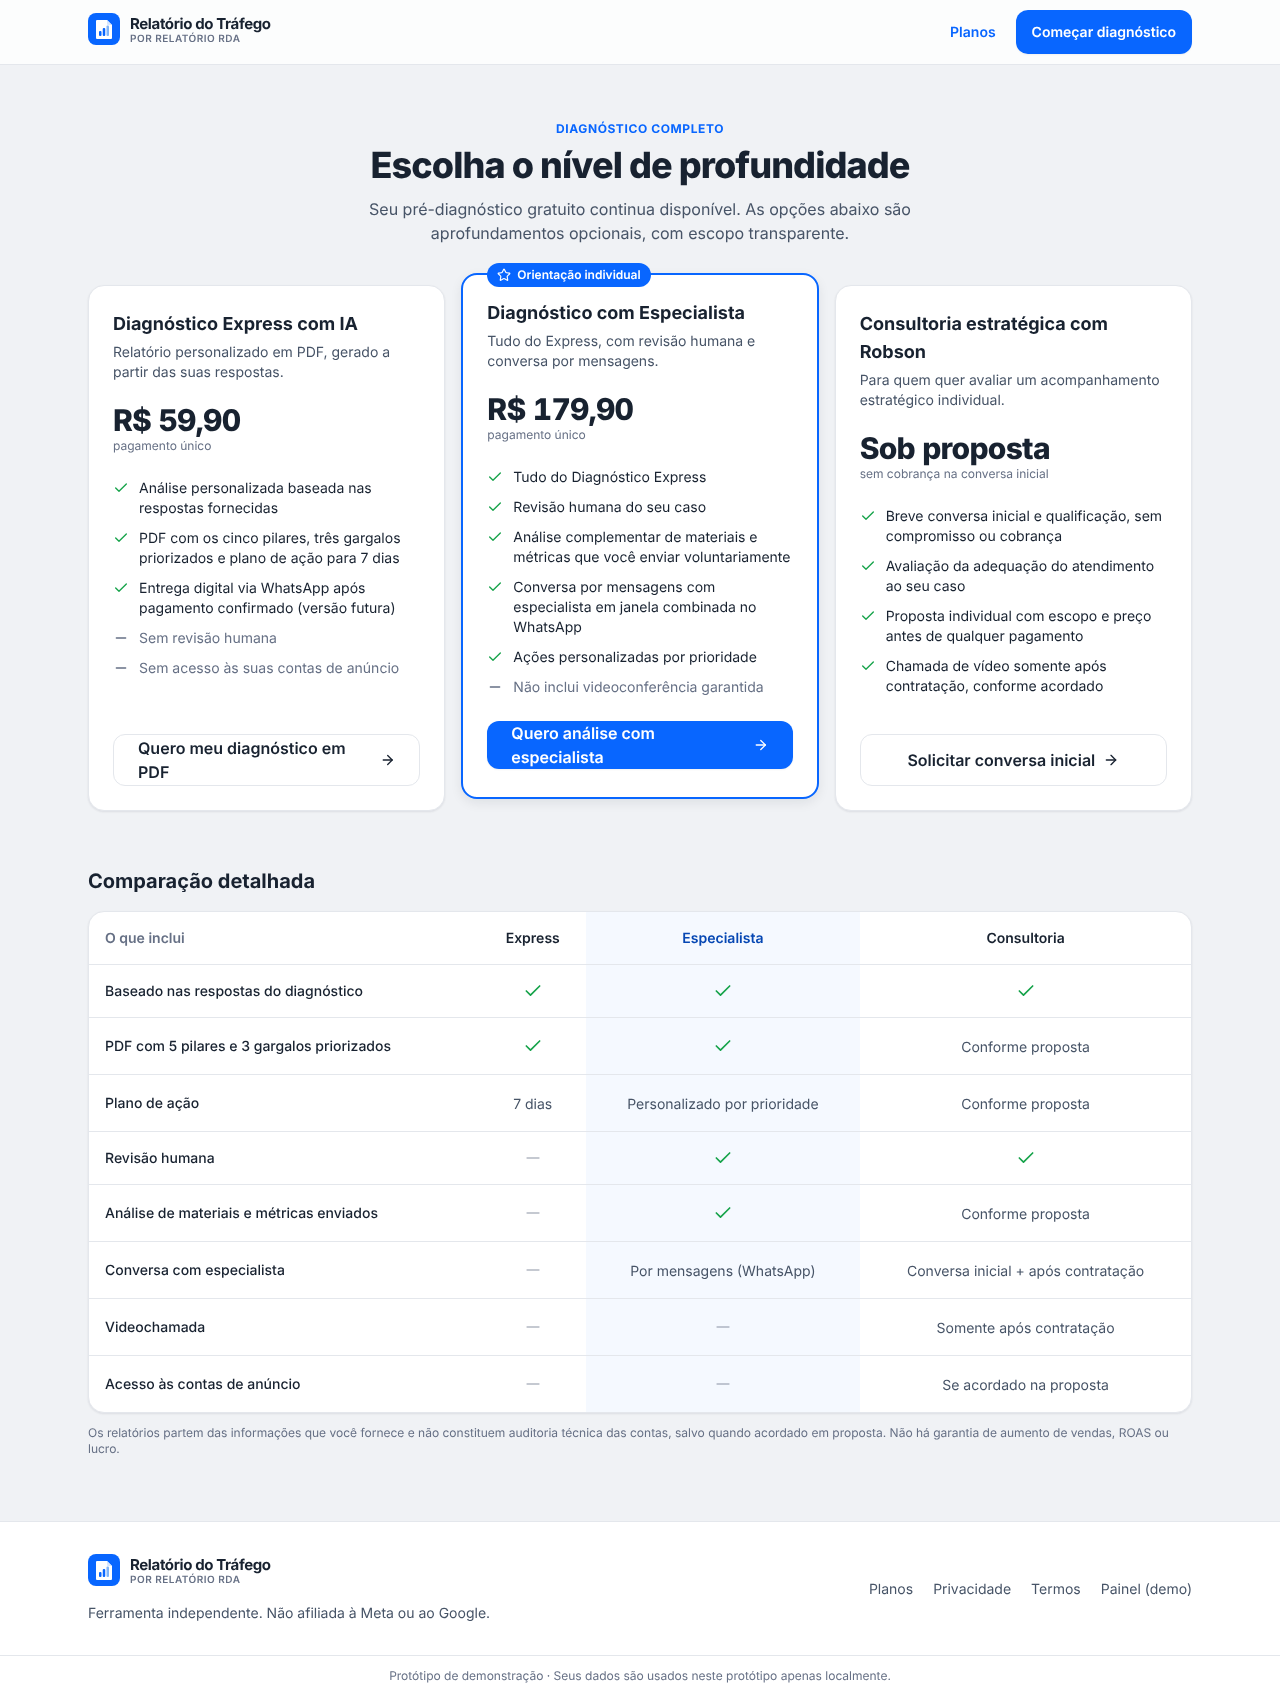
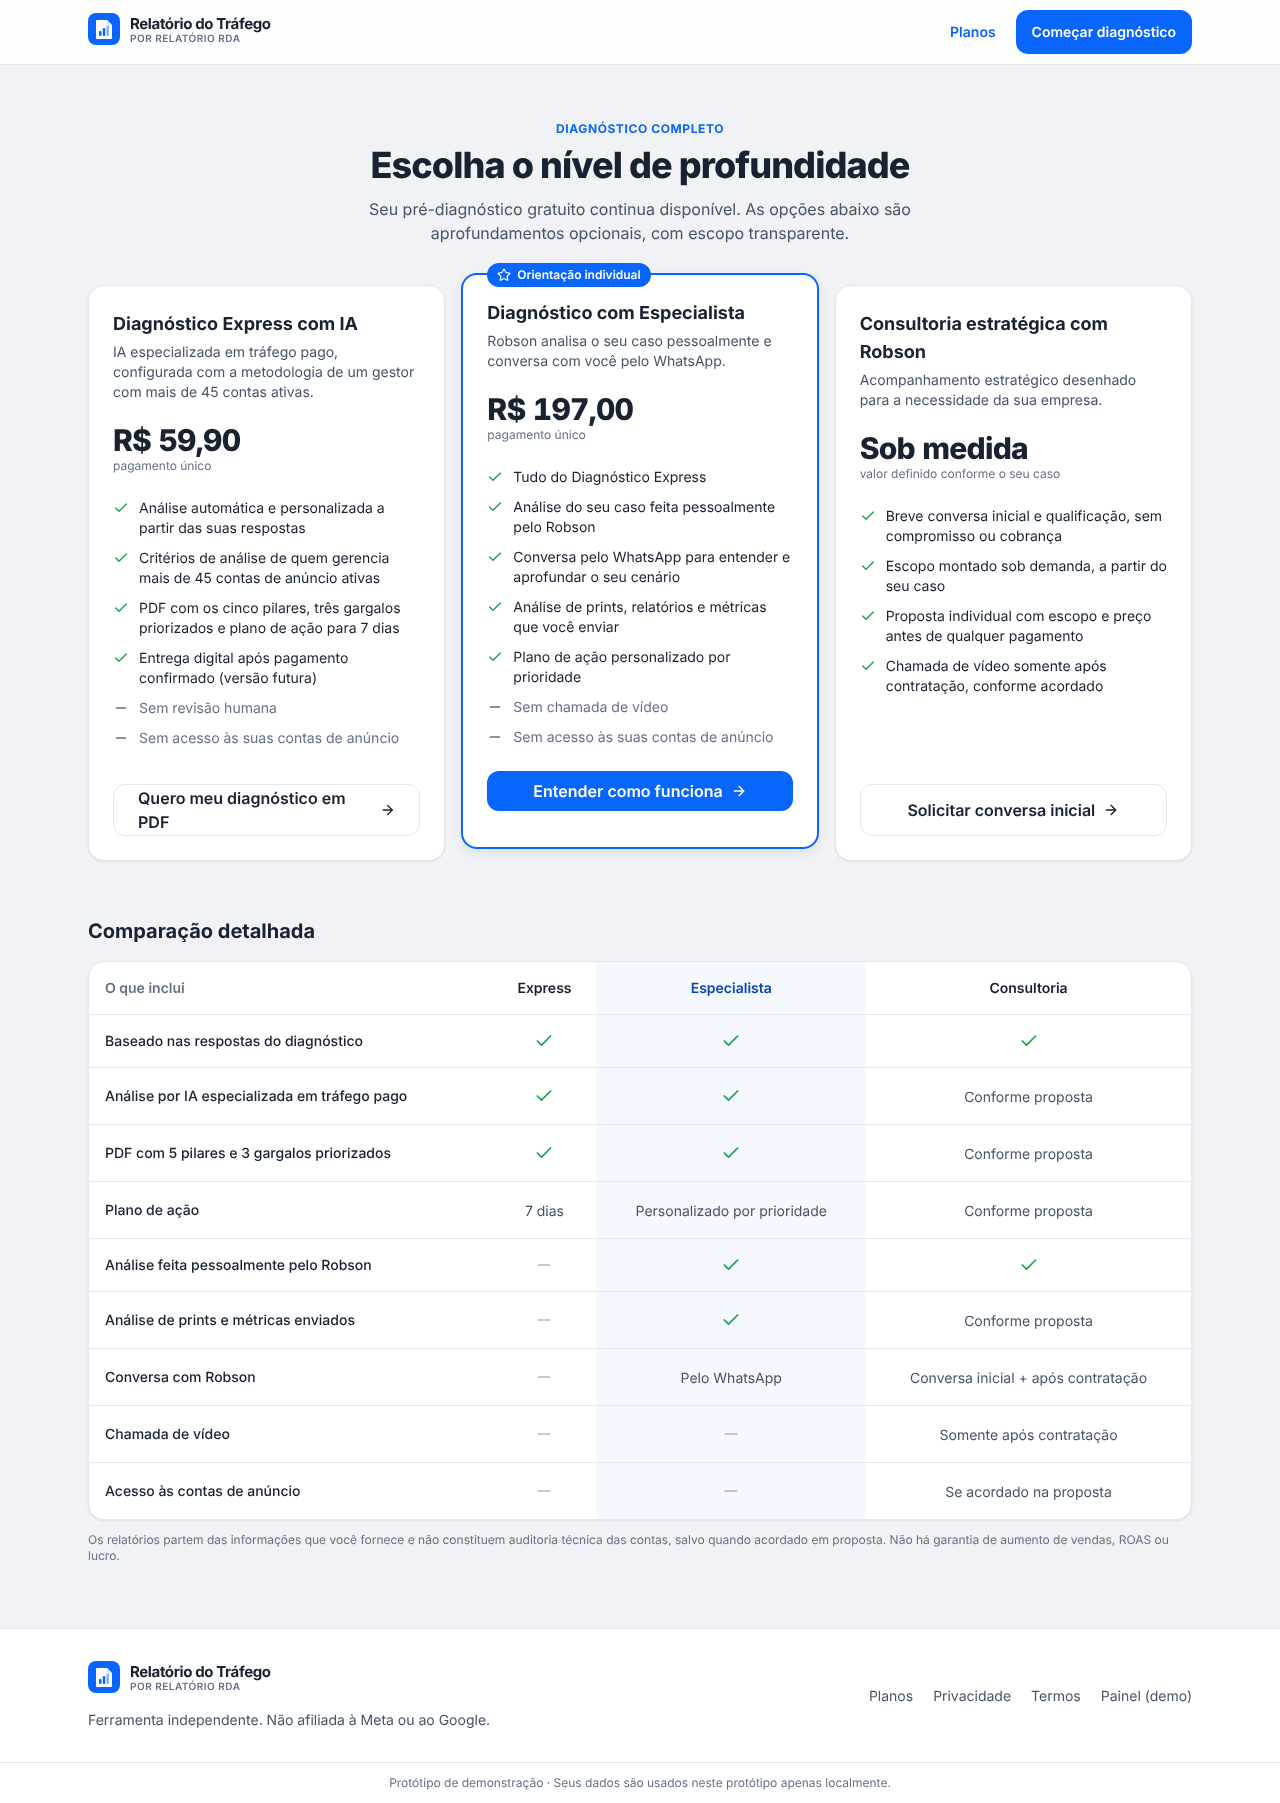
Update offers: Express AI positioning, Specialist at R$197 with explainer page
- Express: AI specialized in paid traffic, configured with the methodology
  of a manager running 45+ active accounts
- Specialist: R$197,00, CTA now opens /diagnostico-especialista explaining
  the WhatsApp-only flow, no video call and no ad-account access
- Consulting: priced on demand per case
- Future upgrade difference adjusted to R$137,10

Claude-Session: https://claude.ai/code/session_01Mtuoy7UwKuteW3eQz1sKDf

diff --git a/src/pages/SpecialistPlan.tsx b/src/pages/SpecialistPlan.tsx
@@ -1,0 +1,197 @@
+import { ArrowLeft, ArrowRight, Check, ClipboardList, FileText, KeyRound, MessageCircle, Search, Send, UserRound, VideoOff } from 'lucide-react';
+import { Link } from 'react-router-dom';
+import { Card, LinkButton } from '../components/ui';
+import { getPlan } from '../data/plans';
+
+const STEPS = [
+  {
+    icon: ClipboardList,
+    title: 'Você contrata e o diagnóstico já começa',
+    text: 'Suas respostas do questionário servem de ponto de partida. Você não precisa repetir tudo do zero.',
+  },
+  {
+    icon: Send,
+    title: 'Você envia o que tiver pelo WhatsApp',
+    text: 'Prints de resultados, relatórios, link da página, criativos ou números de vendas. Só o que você quiser compartilhar.',
+  },
+  {
+    icon: Search,
+    title: 'Robson analisa o seu caso pessoalmente',
+    text: 'Leitura humana do cenário completo: estratégia, mensuração, criativos, custo por cliente e atendimento.',
+  },
+  {
+    icon: MessageCircle,
+    title: 'Conversa pelo WhatsApp',
+    text: 'Perguntas para entender o contexto e espaço para você tirar dúvidas, no seu tempo, por mensagens.',
+  },
+  {
+    icon: FileText,
+    title: 'Você recebe o diagnóstico e o plano de ação',
+    text: 'PDF com os gargalos priorizados e ações personalizadas, na ordem em que fazem mais diferença para o seu caso.',
+  },
+];
+
+const FAQ = [
+  {
+    q: 'Preciso dar acesso à minha conta de anúncios?',
+    a: 'Não. A análise é feita com base nas suas respostas e no material que você enviar. Você não compartilha senhas nem acessos.',
+  },
+  {
+    q: 'Vai ter chamada de vídeo?',
+    a: 'Não. Toda a conversa acontece pelo WhatsApp, por mensagens. Assim você responde quando puder, sem precisar marcar horário.',
+  },
+  {
+    q: 'Quem faz a análise?',
+    a: 'O próprio Robson, gestor de tráfego e fundador da Qvn Ads. A IA organiza a base do relatório; a leitura do caso e as recomendações são dele.',
+  },
+  {
+    q: 'É uma auditoria da conta?',
+    a: 'Não. É um diagnóstico estratégico baseado no que você informa e envia. Uma auditoria técnica dentro das contas faz parte apenas da consultoria, se acordado em proposta.',
+  },
+  {
+    q: 'Em quanto tempo recebo?',
+    a: 'O prazo de entrega será informado antes da contratação.',
+  },
+];
+
+export default function SpecialistPlan() {
+  const plan = getPlan('especialista')!;
+  return (
+    <div className="mx-auto max-w-5xl px-4 pt-8 sm:px-6 sm:pt-12">
+      <Link to="/planos" className="mb-6 inline-flex items-center gap-1.5 text-sm font-semibold text-ink-soft hover:text-ink">
+        <ArrowLeft className="h-4 w-4" aria-hidden /> Voltar aos planos
+      </Link>
+
+      {/* Hero */}
+      <div className="grid gap-6 lg:grid-cols-[1fr_320px] lg:items-start">
+        <div className="anim-rise">
+          <span className="chip bg-brand-50 text-brand-700">Orientação individual</span>
+          <h1 className="mt-3 text-3xl font-extrabold leading-tight tracking-tight sm:text-4xl">
+            Diagnóstico com Especialista: o seu caso analisado pelo Robson
+          </h1>
+          <p className="mt-3 text-lg text-ink-soft">
+            Uma análise individual da sua estratégia de tráfego pago, com conversa pelo WhatsApp.
+            <strong className="text-ink"> Sem chamada de vídeo e sem precisar entrar nas suas contas de anúncio.</strong>
+          </p>
+          <ul className="mt-5 grid gap-2 text-sm sm:grid-cols-3">
+            <li className="flex items-center gap-2 rounded-xl border border-line bg-white px-3 py-2.5">
+              <MessageCircle className="h-4 w-4 shrink-0 text-ok" aria-hidden /> Tudo pelo WhatsApp
+            </li>
+            <li className="flex items-center gap-2 rounded-xl border border-line bg-white px-3 py-2.5">
+              <VideoOff className="h-4 w-4 shrink-0 text-brand" aria-hidden /> Sem chamada de vídeo
+            </li>
+            <li className="flex items-center gap-2 rounded-xl border border-line bg-white px-3 py-2.5">
+              <KeyRound className="h-4 w-4 shrink-0 text-brand" aria-hidden /> Sem acesso às contas
+            </li>
+          </ul>
+        </div>
+
+        <Card className="anim-rise p-6 [animation-delay:60ms] lg:sticky lg:top-24">
+          <p className="text-sm font-semibold text-ink-soft">{plan.name}</p>
+          <p className="tabular mt-1 text-4xl font-extrabold tracking-tight">{plan.price}</p>
+          <p className="text-xs text-ink-mute">{plan.priceNote}</p>
+          <ul className="mt-5 space-y-2 text-sm">
+            {plan.features.map((f) => (
+              <li key={f} className="flex gap-2">
+                <Check className="mt-0.5 h-4 w-4 shrink-0 text-ok" aria-hidden /> {f}
+              </li>
+            ))}
+          </ul>
+          <LinkButton to="/checkout-demo?plano=especialista" size="lg" className="mt-6 w-full">
+            Quero minha análise <ArrowRight className="h-4 w-4" aria-hidden />
+          </LinkButton>
+          <Link to="/checkout-demo?plano=express" className="mt-3 block text-center text-sm font-semibold text-brand hover:underline">
+            Prefiro o Express com IA (R$ 59,90)
+          </Link>
+        </Card>
+      </div>
+
+      {/* Como funciona */}
+      <section className="mt-14" aria-labelledby="how-title">
+        <h2 id="how-title" className="text-2xl font-bold tracking-tight">Como funciona</h2>
+        <ol className="mt-6 space-y-3">
+          {STEPS.map(({ icon: Icon, title, text }, i) => (
+            <li key={title} className="card flex gap-4 p-5">
+              <div className="flex flex-col items-center">
+                <span className="grid h-10 w-10 shrink-0 place-items-center rounded-xl bg-brand-50 text-brand">
+                  <Icon className="h-5 w-5" aria-hidden />
+                </span>
+              </div>
+              <div>
+                <p className="text-xs font-bold uppercase tracking-wide text-ink-mute">Passo {i + 1}</p>
+                <h3 className="mt-0.5 font-bold">{title}</h3>
+                <p className="mt-1 text-sm text-ink-soft">{text}</p>
+              </div>
+            </li>
+          ))}
+        </ol>
+      </section>
+
+      {/* Por que sem call e sem acesso */}
+      <section className="mt-14 grid gap-4 md:grid-cols-2">
+        <Card className="p-6">
+          <VideoOff className="h-6 w-6 text-brand" aria-hidden />
+          <h2 className="mt-3 text-lg font-bold">Por que sem chamada?</h2>
+          <p className="mt-2 text-sm text-ink-soft">
+            Por mensagens você manda prints e números com calma, responde quando puder e fica com tudo registrado para consultar depois.
+            Sem agenda para encaixar e sem pressa.
+          </p>
+        </Card>
+        <Card className="p-6">
+          <KeyRound className="h-6 w-6 text-brand" aria-hidden />
+          <h2 className="mt-3 text-lg font-bold">Por que sem entrar nas contas?</h2>
+          <p className="mt-2 text-sm text-ink-soft">
+            Você não precisa compartilhar senhas nem dar acesso ao Gerenciador. O foco é a estratégia: como você mede, quanto custa um cliente,
+            para onde vai o clique e como o contato vira venda.
+          </p>
+        </Card>
+      </section>
+
+      {/* Quem analisa */}
+      <section className="mt-4">
+        <Card className="grid gap-5 p-6 sm:grid-cols-[auto_1fr] sm:items-center">
+          <div
+            className="grid h-20 w-20 place-items-center rounded-2xl border-2 border-dashed border-line bg-canvas text-ink-mute"
+            role="img"
+            aria-label="Espaço reservado para a foto de Robson"
+          >
+            <UserRound className="h-7 w-7" aria-hidden />
+          </div>
+          <div>
+            <p className="text-xs font-bold uppercase tracking-wider text-brand">Quem analisa</p>
+            <h2 className="mt-1 text-lg font-bold">Robson, gestor de tráfego e fundador da Qvn Ads</h2>
+            <p className="mt-1 text-sm text-ink-soft">
+              Gerencia mais de 45 contas de anúncio ativas e trabalha com estratégia e análise de campanhas para empresas de diferentes perfis.
+            </p>
+          </div>
+        </Card>
+      </section>
+
+      {/* FAQ */}
+      <section className="mt-14" aria-labelledby="faq-title">
+        <h2 id="faq-title" className="text-2xl font-bold tracking-tight">Perguntas frequentes</h2>
+        <div className="mt-5 space-y-2">
+          {FAQ.map((f) => (
+            <details key={f.q} className="card group p-0">
+              <summary className="flex cursor-pointer list-none items-center justify-between gap-3 px-5 py-4 font-semibold">
+                {f.q}
+                <span className="text-brand transition-transform group-open:rotate-45" aria-hidden>+</span>
+              </summary>
+              <p className="px-5 pb-4 text-sm text-ink-soft">{f.a}</p>
+            </details>
+          ))}
+        </div>
+      </section>
+
+      <div className="card mt-10 flex flex-col gap-4 bg-gradient-to-br from-white to-brand-50/60 p-6 sm:flex-row sm:items-center sm:justify-between">
+        <div>
+          <h2 className="text-lg font-bold">Pronto para ter o seu caso analisado?</h2>
+          <p className="text-sm text-ink-soft">{plan.price} · pagamento único · tudo pelo WhatsApp</p>
+        </div>
+        <LinkButton to="/checkout-demo?plano=especialista" size="lg" className="w-full sm:w-auto">
+          Quero análise com especialista <ArrowRight className="h-4 w-4" aria-hidden />
+        </LinkButton>
+      </div>
+    </div>
+  );
+}

diff --git a/src/data/plans.ts b/src/data/plans.ts
@@ -6,43 +6,44 @@ export const PLANS: Plan[] = [
     name: 'Diagnóstico Express com IA',
     price: 'R$ 59,90',
     priceNote: 'pagamento único',
-    tagline: 'Relatório personalizado em PDF, gerado a partir das suas respostas.',
+    tagline: 'IA especializada em tráfego pago, configurada com a metodologia de um gestor com mais de 45 contas ativas.',
     features: [
-      'Análise personalizada baseada nas respostas fornecidas',
+      'Análise automática e personalizada a partir das suas respostas',
+      'Critérios de análise de quem gerencia mais de 45 contas de anúncio ativas',
       'PDF com os cinco pilares, três gargalos priorizados e plano de ação para 7 dias',
-      'Entrega digital via WhatsApp após pagamento confirmado (versão futura)',
+      'Entrega digital após pagamento confirmado (versão futura)',
     ],
     excludes: ['Sem revisão humana', 'Sem acesso às suas contas de anúncio'],
-    cta: 'Quero meu diagnóstico em PDF',
+    cta: 'Quero meu PDF com IA',
     href: '/checkout-demo?plano=express',
   },
   {
     id: 'especialista',
     name: 'Diagnóstico com Especialista',
-    price: 'R$ 179,90',
+    price: 'R$ 197,00',
     priceNote: 'pagamento único',
-    tagline: 'Tudo do Express, com revisão humana e conversa por mensagens.',
+    tagline: 'Robson analisa o seu caso pessoalmente e conversa com você pelo WhatsApp.',
     features: [
       'Tudo do Diagnóstico Express',
-      'Revisão humana do seu caso',
-      'Análise complementar de materiais e métricas que você enviar voluntariamente',
-      'Conversa por mensagens com especialista em janela combinada no WhatsApp',
-      'Ações personalizadas por prioridade',
+      'Análise do seu caso feita pessoalmente pelo Robson',
+      'Conversa pelo WhatsApp para entender e aprofundar o seu cenário',
+      'Análise de prints, relatórios e métricas que você enviar',
+      'Plano de ação personalizado por prioridade',
     ],
-    excludes: ['Não inclui videoconferência garantida'],
-    cta: 'Quero análise com especialista',
-    href: '/checkout-demo?plano=especialista',
+    excludes: ['Sem chamada de vídeo', 'Sem acesso às suas contas de anúncio'],
+    cta: 'Entender como funciona',
+    href: '/diagnostico-especialista',
     highlight: 'Orientação individual',
   },
   {
     id: 'consultoria',
     name: 'Consultoria estratégica com Robson',
-    price: 'Sob proposta',
-    priceNote: 'sem cobrança na conversa inicial',
-    tagline: 'Para quem quer avaliar um acompanhamento estratégico individual.',
+    price: 'Sob medida',
+    priceNote: 'valor definido conforme o seu caso',
+    tagline: 'Acompanhamento estratégico desenhado para a necessidade da sua empresa.',
     features: [
       'Breve conversa inicial e qualificação, sem compromisso ou cobrança',
-      'Avaliação da adequação do atendimento ao seu caso',
+      'Escopo montado sob demanda, a partir do seu caso',
       'Proposta individual com escopo e preço antes de qualquer pagamento',
       'Chamada de vídeo somente após contratação, conforme acordado',
     ],
@@ -56,5 +57,5 @@ export function getPlan(id: string | null | undefined): Plan | undefined {
   return PLANS.find((p) => p.id === (id as PlanId));
 }
 
-/** Reservado para fase futura: upgrade Express → Especialista. Não implementado. */
-export const FUTURE_UPGRADE_DIFF = 'R$ 120,00';
+/** Reservado para fase futura: upgrade Express → Especialista (R$ 197,00 − R$ 59,90). Não implementado. */
+export const FUTURE_UPGRADE_DIFF = 'R$ 137,10';

diff --git a/src/pages/Plans.tsx b/src/pages/Plans.tsx
@@ -4,12 +4,13 @@ import { PLANS } from '../data/plans';
 
 const COMPARISON: { label: string; values: [string | boolean, string | boolean, string | boolean] }[] = [
   { label: 'Baseado nas respostas do diagnóstico', values: [true, true, true] },
+  { label: 'Análise por IA especializada em tráfego pago', values: [true, true, 'Conforme proposta'] },
   { label: 'PDF com 5 pilares e 3 gargalos priorizados', values: [true, true, 'Conforme proposta'] },
   { label: 'Plano de ação', values: ['7 dias', 'Personalizado por prioridade', 'Conforme proposta'] },
-  { label: 'Revisão humana', values: [false, true, true] },
-  { label: 'Análise de materiais e métricas enviados', values: [false, true, 'Conforme proposta'] },
-  { label: 'Conversa com especialista', values: [false, 'Por mensagens (WhatsApp)', 'Conversa inicial + após contratação'] },
-  { label: 'Videochamada', values: [false, false, 'Somente após contratação'] },
+  { label: 'Análise feita pessoalmente pelo Robson', values: [false, true, true] },
+  { label: 'Análise de prints e métricas enviados', values: [false, true, 'Conforme proposta'] },
+  { label: 'Conversa com Robson', values: [false, 'Pelo WhatsApp', 'Conversa inicial + após contratação'] },
+  { label: 'Chamada de vídeo', values: [false, false, 'Somente após contratação'] },
   { label: 'Acesso às contas de anúncio', values: [false, false, 'Se acordado na proposta'] },
 ];
 

diff --git a/src/App.tsx b/src/App.tsx
@@ -5,6 +5,7 @@ import Landing from './pages/Landing';
 import Quiz from './pages/Quiz';
 import Result from './pages/Result';
 import Plans from './pages/Plans';
+import SpecialistPlan from './pages/SpecialistPlan';
 import CheckoutDemo from './pages/CheckoutDemo';
 import Consulting from './pages/Consulting';
 import AdminDemo from './pages/AdminDemo';
@@ -16,6 +17,7 @@ const TITLES: Record<string, string> = {
   '/diagnostico': 'Diagnóstico — Relatório do Tráfego',
   '/resultado': 'Seu resultado — Relatório do Tráfego',
   '/planos': 'Planos — Relatório do Tráfego',
+  '/diagnostico-especialista': 'Diagnóstico com Especialista — Relatório do Tráfego',
   '/checkout-demo': 'Checkout (demonstração) — Relatório do Tráfego',
   '/solicitar-consultoria': 'Solicitar consultoria — Relatório do Tráfego',
   '/admin-demo': 'Painel (demonstração) — Relatório do Tráfego',
@@ -41,6 +43,7 @@ export default function App() {
           <Route path="diagnostico" element={<Quiz />} />
           <Route path="resultado" element={<Result />} />
           <Route path="planos" element={<Plans />} />
+          <Route path="diagnostico-especialista" element={<SpecialistPlan />} />
           <Route path="checkout-demo" element={<CheckoutDemo />} />
           <Route path="solicitar-consultoria" element={<Consulting />} />
           <Route path="admin-demo" element={<AdminDemo />} />

diff --git a/README.md b/README.md
@@ -24,6 +24,7 @@ Requer Node 18+.
 | `/diagnostico` | Quiz (12 perguntas em 4 etapas + dados opcionais). `?q=5` abre a pergunta 5 para edição |
 | `/resultado` | Pré-diagnóstico gratuito (índice, pilares, prioridades, indicadores) |
 | `/planos` | Três ofertas + comparação |
+| `/diagnostico-especialista` | Página explicativa do Diagnóstico com Especialista (WhatsApp, sem chamada, sem acesso às contas) |
 | `/checkout-demo?plano=express\|especialista` | Simulação de contratação, sem cobrança |
 | `/solicitar-consultoria` | Formulário demonstrativo da consultoria |
 | `/admin-demo` | Painel interno com registros EXEMPLO + simulações LOCAIS |
